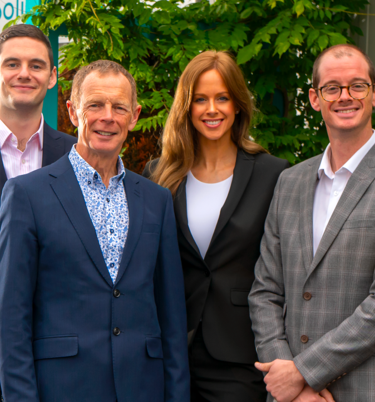
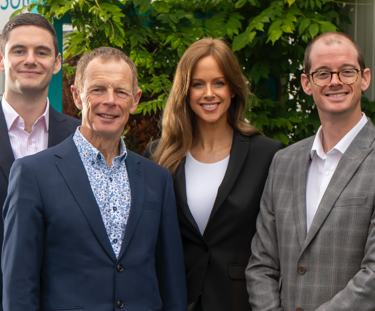
updated images

diff --git a/src/templates/index-page.js b/src/templates/index-page.js
@@ -4,7 +4,7 @@ import { graphql } from 'gatsby'
 import { navigate } from 'gatsby-link'
 
 // Load components
-import { Box, Heading, Text, Button, keyframes, AspectRatio } from '@chakra-ui/react'
+import { Box, Heading, Text, Button, keyframes, AspectRatio, useMediaQuery } from '@chakra-ui/react'
 import ReactScroll from '../components/ReactScroll/ReactScroll'
 
 //import Button from '../theme/button'
@@ -17,7 +17,7 @@ import SVG from '../components/UI/SVG/index'
 
 // Load asset
 import Icon from '../components/UI/SVG/index'
-import teamTablet from '../img/about-bg.png'
+import teamTablet from '../img/tablet-about.png'
 import teamMobile from '../img/mobile-team.png'
 import homvidwm from '../videos/HOMEPAGE.webmsd.webm'
 import homvidmp from '../videos/HOMEPAGEMP4.mp4'
@@ -29,19 +29,14 @@ const bounce = keyframes `
   50%{transform: translateY(0px)}
   100%{transform: translateY(-25px)}
 `
-export const IndexPageTemplate = ({
-  title,
-  heading,
-  subheading,
-  mainpitch,
-  description,
-  intro,
-}) => {
+
+const mobile = `linear-gradient(184.08deg, rgba(9,21,64, 0.6), 100%, rgba(255,255,255,1), #091540 100%), url(${teamMobile})`
+const tablet = `linear-gradient(270deg, rgba(36,155,171,0) 0%, rgba(36,155,171,0) 31.24%, #249BAB 90%), url(${teamTablet})`
+const dekstop = `url(${teamDesktop})`
+
+export const IndexPageTemplate = () => {
+const [isLessThan464, isMoreThat1500] = useMediaQuery(["(max-width: 464px", "(min-width: 1450px)"])
   
-  const mobile = `linear-gradient(184.08deg, rgba(9,21,64, 0.6), 100%, rgba(255,255,255,1), #091540 100%), url(${teamMobile})`
-  const tablet = `linear-gradient(270deg, rgba(36,155,171,0) 0%, rgba(36,155,171,0) 31.24%, #249BAB 90%), url(${teamTablet})`
-  const dekstop = `url(${teamDesktop})`
- 
 return (
     <Fragment>
       <Box as="header" minHeight={{base: "100vh", md:"750px", xl: "900px"}} maxHeight="900px" height="100%" overflow="hidden" background="linear-gradient(0deg, rgba(9,21,64,0.682492980102197) 0%, rgba(9,21,64,0.6852941005503764) 100%)"  zIndex="9" positiom="relative">
@@ -82,16 +77,16 @@ return (
       <Box as="section" >
           <BannerOurCustomers />
       </Box>
-      <Box as="section" textStyle="section" backgroundImage={{base: mobile, md: tablet, lg: dekstop}} backgroundRepeat="no-repeat" backgroundSize="cover" backgroundPosition="center bottom" height={{base: "400px", md: "700px"}} width="100%" position="relative">
+      <Box as="section" textStyle="section" backgroundImage={{base: mobile,  sm: tablet, lg: dekstop}} backgroundRepeat="no-repeat" backgroundSize="cover" backgroundPosition="center bottom" height="auto" minHeight={{base: "auto", sm: "400px",  md: isMoreThat1500 ? "700px" :"auto"}} width="100%" position="relative">
           <Box textStyle="container" height="100%">
               <Box display="flex" flexDirection="column" justifyContent="center" height="100%">
-                <Box marginBottom="25px">
-                  <SVG name="twentyEmblem" />
+                <Box marginBottom={{base: "10px", md:"25px"}} width={{base:"100px", md: "150px"}}>
+                  <SVG name="twentyEmblem" width="100%" height="100%" fill={isLessThan464 ? "#fff" : undefined} />
                 </Box>
                 <Heading textStyle="h2" color={{base: "#fff", md: "inherit"}}>
                   Meet the ASL team
                 </Heading>
-                <Text textStyle="p" marginBottom={12} color={{base: "#fff", md: "inherit"}} maxW={{base: "100%", md:"450px"}}>
+                <Text textStyle="p" marginBottom={{base: 6, md: 12}} color={{base: "#fff", md: "inherit"}} maxW={{base: "100%", md:"450px"}}>
                   Come and meet the friendly faces who strive for excellence in everything they do
                 </Text>
                 <Button variant="outline" maxWidth="151px" onClick={() => navigate('/team')}>Learn more</Button> 

diff --git a/src/components/Footer.js b/src/components/Footer.js
@@ -33,7 +33,7 @@ const SignUp = ({ isSubmitting }) => {
 
 const Footer = ({ toggleDrawer }) => {
   return(
-    <Box background="blue.900" color="#fff" textStyle="section">
+    <Box background="blue.900" color="#fff" textStyle="section" py="80px">
       <Box textStyle="container">
         <Heading fontSize="30px" lineHeight="36px" fontWeight="600" marginBottom="30px">
           Stay Connected

diff --git a/src/components/Banners/BannerOurCustomers/BannerOurCustomers.js b/src/components/Banners/BannerOurCustomers/BannerOurCustomers.js
@@ -96,7 +96,7 @@ const BannerOurCustomers = () => {
                 <Carousel
                     autoPlay={true}
                     draggable={false}
-                    autoPlaySpeed={1000}
+                    autoPlaySpeed={2000}
                     centerMode={isLessThan464 ? false : true}
                     arrows={false}
                     desktopView={3}
